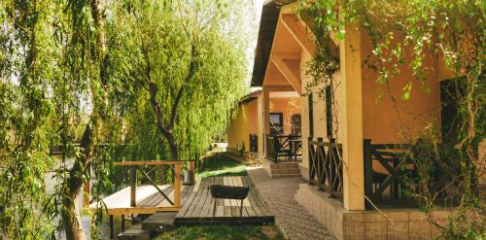
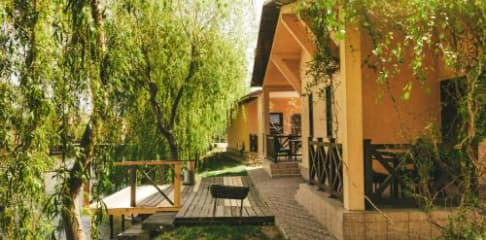
add maps and new photo

diff --git a/index.html b/index.html
@@ -23,12 +23,12 @@
     <main>
       <!-- <img src="https://picsum.photos/id/237/500/400" alt="Picture in hotel"> -->
       <section>
-        <img src="/images/123451.png" alt="Forest picture" width="1488" height="604">
+        <img src="/images/123451.jpg" alt="Forest picture" width="1488" height="604">
         <h1>HolidayTime</h1>
         <p>Автентичний відпочинок серед українського колориту!</p>
       </section>
       <section>
-        <img src="/images/house_hotel.png" alt="House">
+        <img src="/images/house_hotel.jpg" alt="House">
         <p>
           Полонини Карпат, у селі Орів посеред гір розташувався затишний куточок
           для незабутніх вражень. Справжні українські гори, власноручне
@@ -37,7 +37,7 @@
         <button>Переглянути</button>
       </section>
       <section>
-        <img src="/images/people.png" alt="People speaking" />
+        <img src="/images/people.jpg" alt="People speaking" />
         <p>
           Активний відпочинок у нетипових лоцаціях. Незаймана природа та
           місцевий колорит подарують Вам незабутні враження.

diff --git a/contacts.html b/contacts.html
@@ -38,6 +38,13 @@
       <section>
         <h2>Адреса сайту</h2>
         <p>м. Київ, вул. Малевича, буд. 4</p>
+        <iframe
+          src="https://www.google.com/maps/embed?pb=!1m18!1m12!1m3!1d2541.7125645211604!2d30.508627876096433!3d50.427826788993045!2m3!1f0!2f0!3f0!3m2!1i1024!2i768!4f13.1!3m3!1m2!1s0x40d4cf1e3ee89c35%3A0x9004f0857426acae!2z0LLRg9C70LjRhtGPINCa0LDQt9C40LzQuNGA0LAg0JzQsNC70LXQstC40YfQsCwgNCwg0JrQuNGX0LIsIDAyMDAw!5e0!3m2!1sru!2sua!4v1731404488936!5m2!1sru!2sua"
+          width="600"
+          height="450"
+          loading="lazy"
+          referrerpolicy="no-referrer-when-downgrade"
+        ></iframe>
       </section>
     </main>
     <footer>
